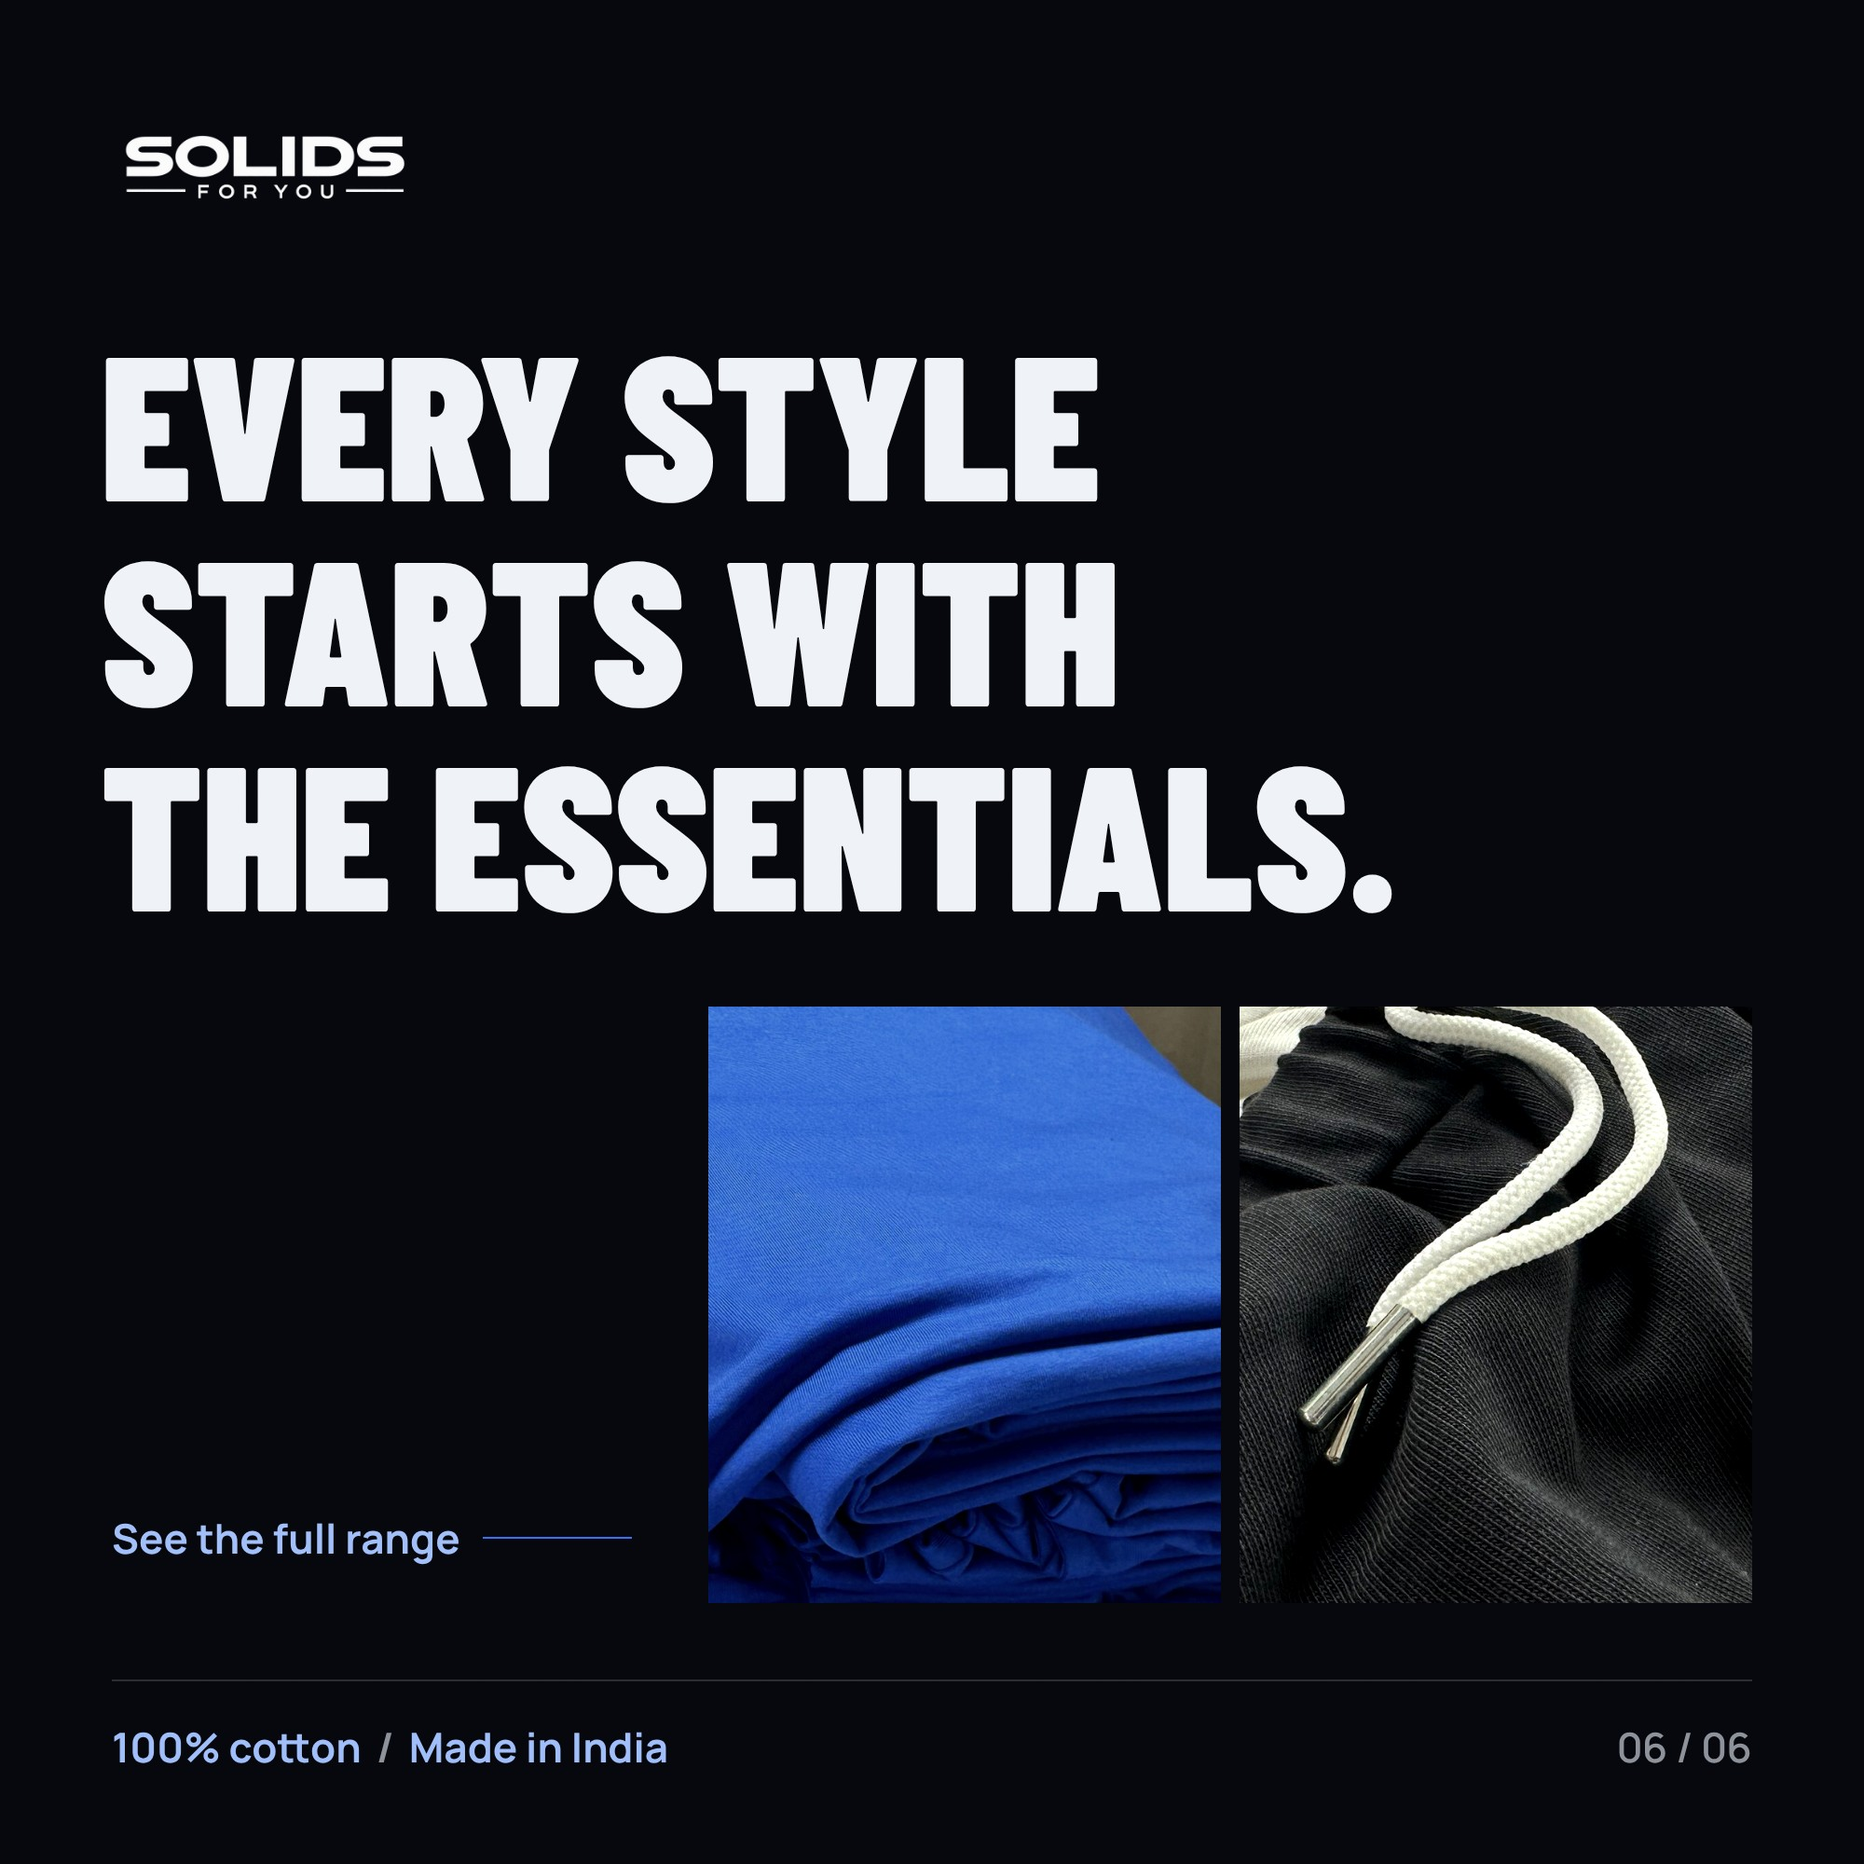
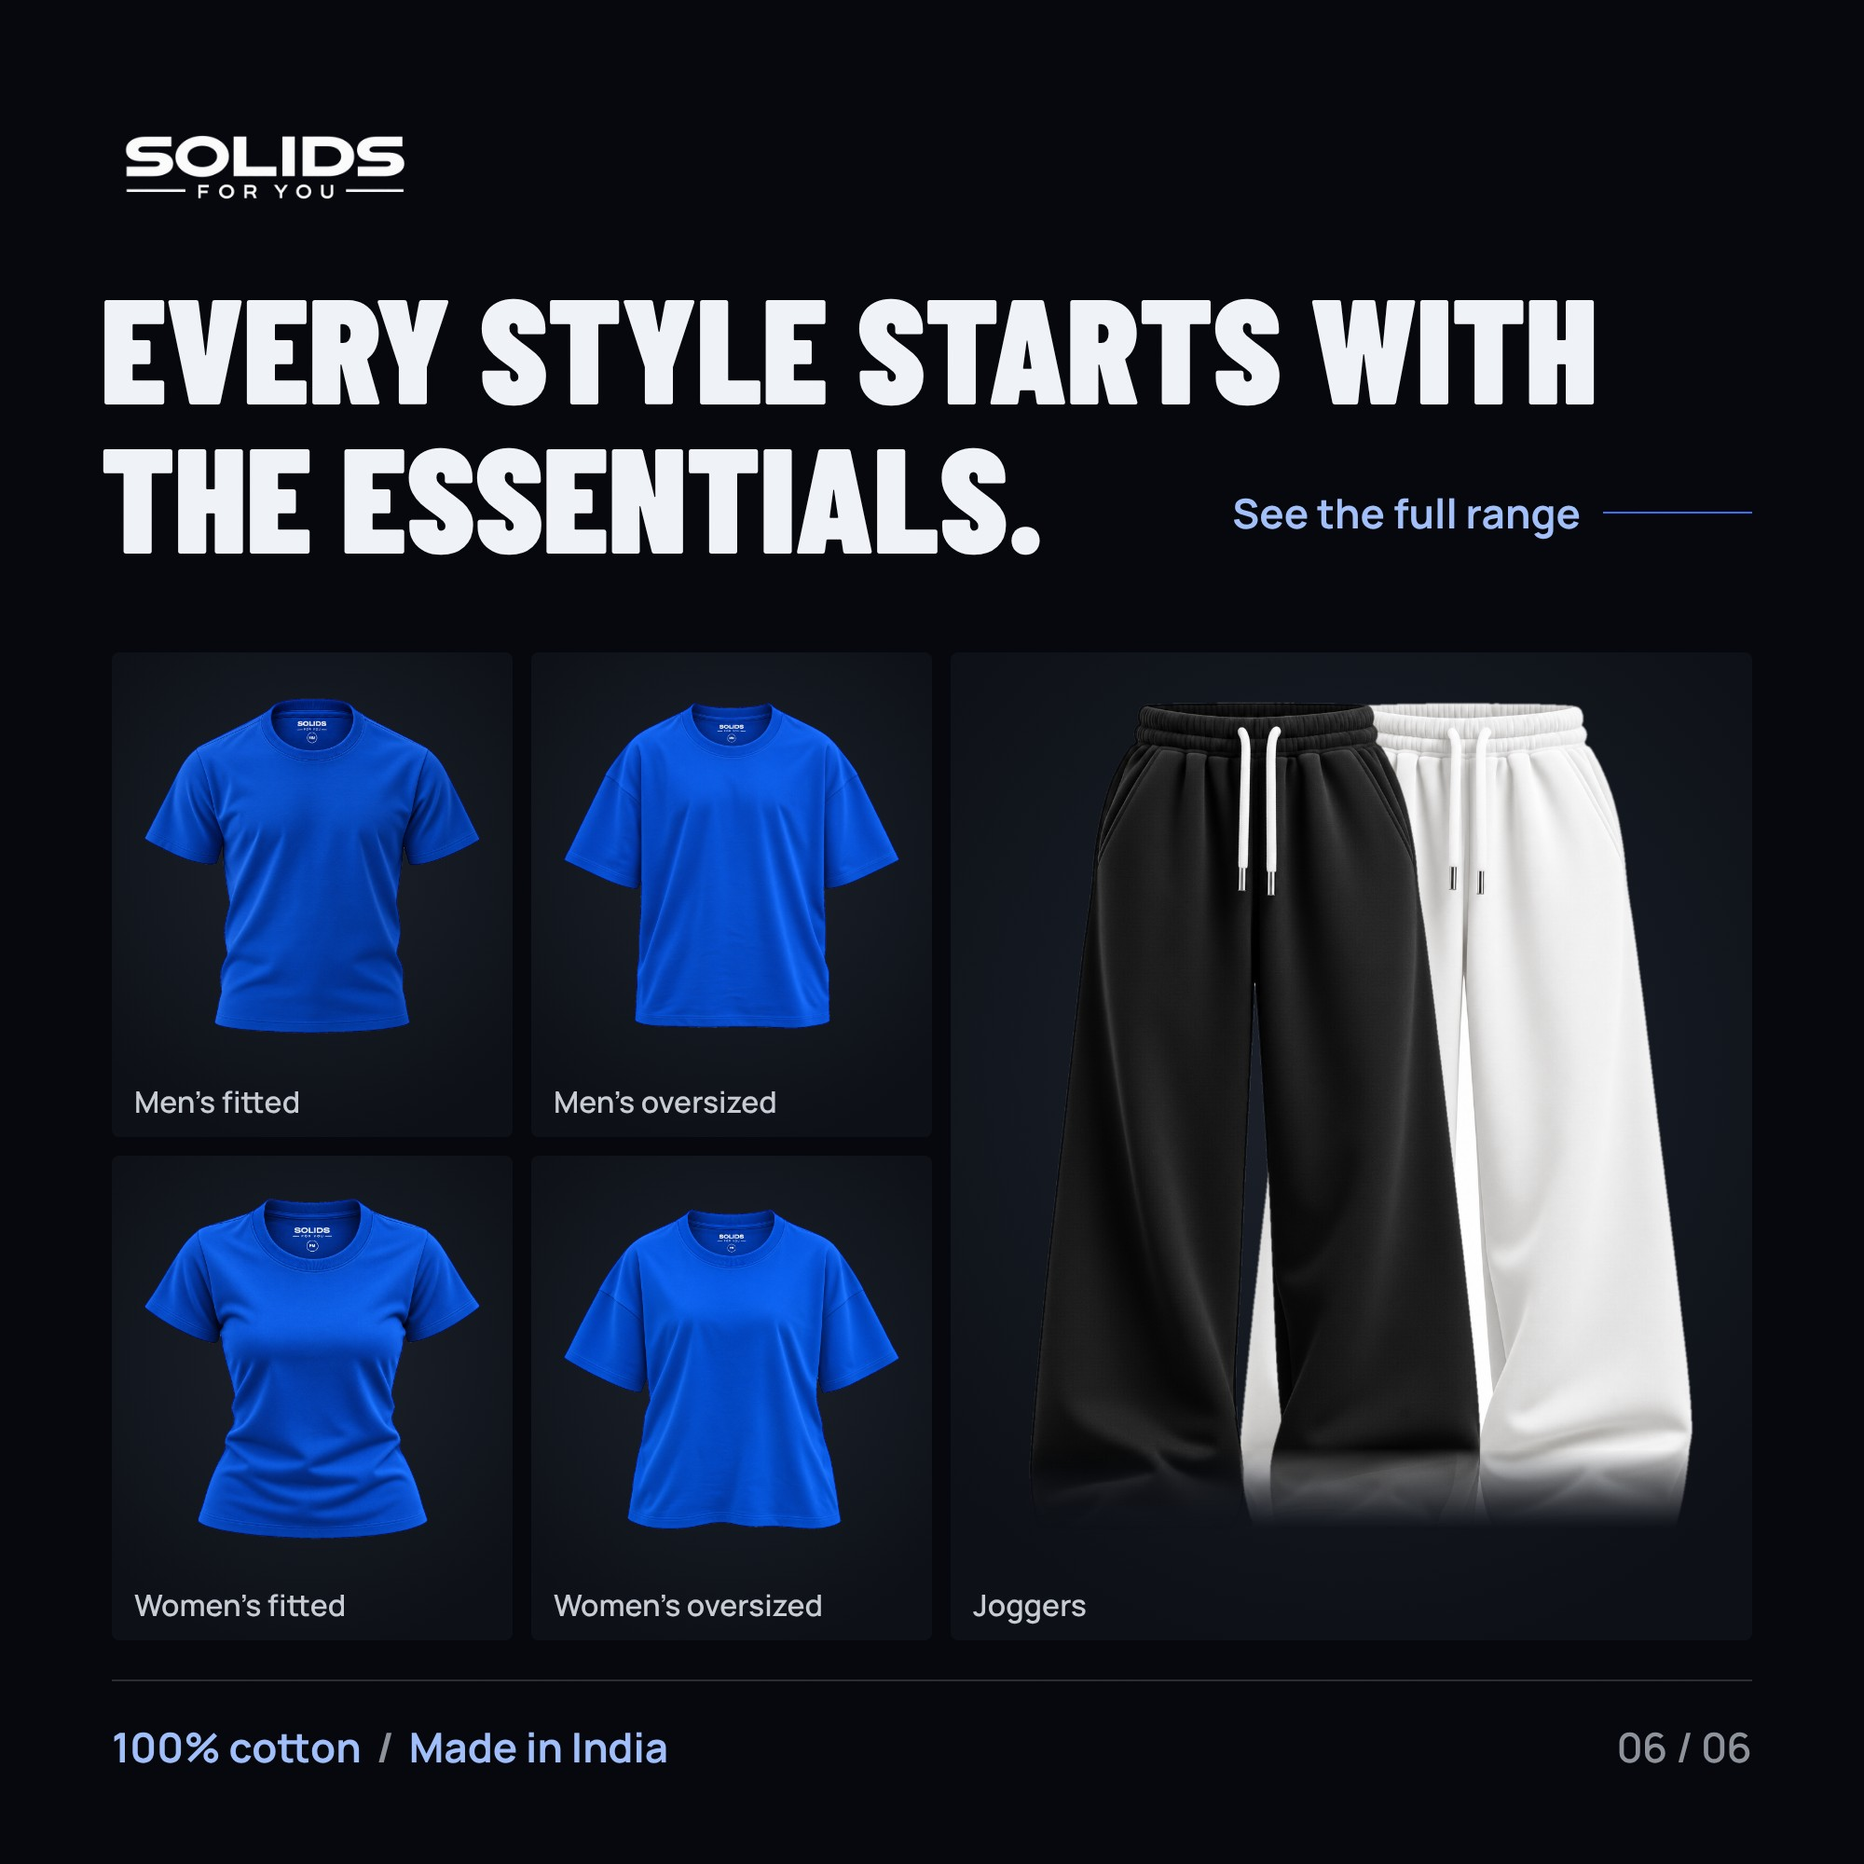
Brand Story card 06: the full range as a grid on black
Six product cutouts (4 tees, black and white joggers) with the white studio
background removed, in assets/sfy/products/ (indexed). Cutout script in
amazon/brand-story-images/src/cutout.py.

Claude-Session: https://claude.ai/code/session_01SfDb7JAhykQvxkVuPSpcig

diff --git a/amazon/brand-story-images/src/site.html b/amazon/brand-story-images/src/site.html
@@ -7,7 +7,7 @@
 /* Hallmark · shape: Story strip (seven square cards, each one idea) · genre: editorial · theme: brand · redesign: full
  * paper: oklch(13% 0.012 264) · accent: oklch(58% 0.21 264) · display: Barlow Condensed 900 · body: Manrope 600/700 · hero: full-bleed photo, logo as head · nav: none (image cards) · footer: claim rule, kept · signature: the logo set huge over the cutting table
  * axes: dark/condensed caps/brand blue · posture: Restrained · contrast: pass · fold: pass · v2.0.0 */
-/* Hallmark · pre-emit critique: P4 H4 E4 S4 R4 V4 · weakest: S, three cards opened the same way (head over pictures); 03 is now a day list beside one photo, 04 a plate the head wraps, 06 the tagline over the range, tee beside jogger */
+/* Hallmark · pre-emit critique: P4 H4 E4 S4 R4 V4 · weakest: S, three cards opened the same way (head over pictures); 03 is now a day list beside one photo, 04 a plate the head wraps, 06 the tagline over the whole range as a grid */
 /* Hallmark · waive 59 · body gap 3.2cqw between every card · the story reads as one series of square cards, one gutter throughout, made to export one by one */
 /* Hallmark · waive 23 · .foot .u on the first and last card · the blue cotton and India claim opens and closes the story */
 :root{
@@ -16,6 +16,7 @@
   --shade-0:oklch(13% 0.012 264 / 0);--shade-50:oklch(13% 0.012 264 / .5);--shade-70:oklch(13% 0.012 264 / .7);--shade-90:oklch(13% 0.012 264 / .92);
   --font-display:"Barlow","Arial Narrow",sans-serif;--font-body:"Manrope",system-ui,sans-serif;
   --s-sm:0.6cqw;--s-md:0.8cqw;--s-lg:1.2cqw;--s-xl:2cqw;--s-2xl:3.2cqw;--s-3xl:4.8cqw;--edge:6cqw;
+  --well:oklch(17% 0.014 264);--well-hi:oklch(25% 0.02 264);
   --shadow:0 1px 2px oklch(20% 0.01 264 / .05);
 }
 @font-face{font-family:Barlow;src:url(../../../brand/fonts/BarlowCondensed-900.ttf);font-weight:900;font-display:swap}
@@ -58,6 +59,14 @@ h1{font-family:var(--font-display);font-weight:900;text-transform:uppercase;line
 .day b{font-family:var(--font-display);font-weight:900;font-size:4.8cqw;line-height:1;text-transform:uppercase}
 /* 04: the plate */
 .plate h1 span{position:absolute;display:block;white-space:nowrap}
+/* 06: the range grid */
+.range{display:grid;grid-template-columns:minmax(0,1fr) minmax(0,1fr) minmax(0,2fr);grid-template-rows:1fr 1fr;gap:1cqw}
+.cell{position:relative;border-radius:0.4cqw;overflow:hidden;background:radial-gradient(70% 60% at 50% 42%,var(--well-hi),var(--well))}
+.cell img{position:absolute;left:50%;top:44%;transform:translate(-50%,-50%);max-width:84%;max-height:76%}
+.cell.j{grid-row:1 / 3;grid-column:3}
+.cell.j img{max-height:none;max-width:none;height:84%;top:47%}
+.cell.j .jb{left:38%;z-index:2}.cell.j .jw{left:63%;z-index:1}
+.cell p{position:absolute;left:var(--s-lg);bottom:var(--s-md);font-size:1.6cqw;color:var(--ink-2)}
 .more{display:inline-flex;align-items:center;gap:var(--s-lg);font-size:2.2cqw;font-weight:700;color:var(--accent-soft)}
 .more i{display:block;width:8cqw;height:0.1cqw;background:var(--accent)}
 </style></head><body>
@@ -124,10 +133,15 @@ h1{font-family:var(--font-display);font-weight:900;text-transform:uppercase;line
 
 <section id="essentials">
   <img class="logo" src="logo.png" alt="">
-  <h1 class="abs" style="left:5.4cqw;top:17cqw;font-size:11cqw">Every style<br>starts with<br>the essentials.</h1>
-  <div class="ph" style="left:38cqw;top:54cqw;width:27.5cqw;height:32cqw;background-image:url(../../../assets/sfy/photos/blue-tees-folded-stack.jpg);background-size:320%;background-position:62% 88%"></div>
-  <div class="ph" style="left:66.5cqw;top:54cqw;width:27.5cqw;height:32cqw;background-image:url(../../../assets/sfy/photos/black-joggers-drawstring-metal-tips-factory-cropped.jpg);background-size:auto 150%;background-position:45% 60%;filter:contrast(1.1) brightness(1.05)"></div>
-  <p class="more abs" style="left:6cqw;top:81cqw">See the full range <i></i></p>
+  <h1 class="abs" style="left:5.4cqw;top:14.5cqw;font-size:8cqw">Every style starts with<br>the essentials.</h1>
+  <p class="more abs" style="right:6cqw;top:26cqw">See the full range <i></i></p>
+  <div class="range abs" style="left:6cqw;right:6cqw;top:35cqw;height:53cqw">
+    <div class="cell"><img src="../../../assets/sfy/products/tee-mens-fitted-blue.png" alt="Men's fitted tee in blue"><p>Men&rsquo;s fitted</p></div>
+    <div class="cell"><img src="../../../assets/sfy/products/tee-mens-oversized-blue.png" alt="Men's oversized tee in blue"><p>Men&rsquo;s oversized</p></div>
+    <div class="cell j"><img class="jw" src="../../../assets/sfy/products/joggers-white.png" alt="White joggers"><img class="jb" src="../../../assets/sfy/products/joggers-black.png" alt="Black joggers"><p>Joggers</p></div>
+    <div class="cell"><img src="../../../assets/sfy/products/tee-womens-fitted-blue.png" alt="Women's fitted tee in blue"><p>Women&rsquo;s fitted</p></div>
+    <div class="cell"><img src="../../../assets/sfy/products/tee-womens-oversized-blue.png" alt="Women's oversized tee in blue"><p>Women&rsquo;s oversized</p></div>
+  </div>
   <div class="grain"></div>
   <div class="foot"><div class="u">100% cotton<span>/</span>Made in India</div><div class="x">06 / 06</div></div>
 </section>

diff --git a/amazon/brand-story-images/src/site.src.html b/amazon/brand-story-images/src/site.src.html
@@ -7,7 +7,7 @@
 /* Hallmark · shape: Story strip (seven square cards, each one idea) · genre: editorial · theme: brand · redesign: full
  * paper: oklch(13% 0.012 264) · accent: oklch(58% 0.21 264) · display: Barlow Condensed 900 · body: Manrope 600/700 · hero: full-bleed photo, logo as head · nav: none (image cards) · footer: claim rule, kept · signature: the logo set huge over the cutting table
  * axes: dark/condensed caps/brand blue · posture: Restrained · contrast: pass · fold: pass · v2.0.0 */
-/* Hallmark · pre-emit critique: P4 H4 E4 S4 R4 V4 · weakest: S, three cards opened the same way (head over pictures); 03 is now a day list beside one photo, 04 a plate the head wraps, 06 the tagline over the range, tee beside jogger */
+/* Hallmark · pre-emit critique: P4 H4 E4 S4 R4 V4 · weakest: S, three cards opened the same way (head over pictures); 03 is now a day list beside one photo, 04 a plate the head wraps, 06 the tagline over the whole range as a grid */
 /* Hallmark · waive 59 · body gap 64px between every card · the story reads as one series of square cards, one gutter throughout, made to export one by one */
 /* Hallmark · waive 23 · .foot .u on the first and last card · the blue cotton and India claim opens and closes the story */
 :root{
@@ -16,6 +16,7 @@
   --shade-0:oklch(13% 0.012 264 / 0);--shade-50:oklch(13% 0.012 264 / .5);--shade-70:oklch(13% 0.012 264 / .7);--shade-90:oklch(13% 0.012 264 / .92);
   --font-display:"Barlow","Arial Narrow",sans-serif;--font-body:"Manrope",system-ui,sans-serif;
   --s-sm:12px;--s-md:16px;--s-lg:24px;--s-xl:40px;--s-2xl:64px;--s-3xl:96px;--edge:120px;
+  --well:oklch(17% 0.014 264);--well-hi:oklch(25% 0.02 264);
   --shadow:0 1PX 2PX oklch(20% 0.01 264 / .05);
 }
 @font-face{font-family:Barlow;src:url(../../../brand/fonts/BarlowCondensed-900.ttf);font-weight:900;font-display:swap}
@@ -58,6 +59,14 @@ h1{font-family:var(--font-display);font-weight:900;text-transform:uppercase;line
 .day b{font-family:var(--font-display);font-weight:900;font-size:96px;line-height:1;text-transform:uppercase}
 /* 04: the plate */
 .plate h1 span{position:absolute;display:block;white-space:nowrap}
+/* 06: the range grid */
+.range{display:grid;grid-template-columns:minmax(0,1fr) minmax(0,1fr) minmax(0,2fr);grid-template-rows:1fr 1fr;gap:20px}
+.cell{position:relative;border-radius:8px;overflow:hidden;background:radial-gradient(70% 60% at 50% 42%,var(--well-hi),var(--well))}
+.cell img{position:absolute;left:50%;top:44%;transform:translate(-50%,-50%);max-width:84%;max-height:76%}
+.cell.j{grid-row:1 / 3;grid-column:3}
+.cell.j img{max-height:none;max-width:none;height:84%;top:47%}
+.cell.j .jb{left:38%;z-index:2}.cell.j .jw{left:63%;z-index:1}
+.cell p{position:absolute;left:var(--s-lg);bottom:var(--s-md);font-size:32px;color:var(--ink-2)}
 .more{display:inline-flex;align-items:center;gap:var(--s-lg);font-size:44px;font-weight:700;color:var(--accent-soft)}
 .more i{display:block;width:160px;height:2px;background:var(--accent)}
 </style></head><body>
@@ -124,10 +133,15 @@ h1{font-family:var(--font-display);font-weight:900;text-transform:uppercase;line
 
 <section id="essentials">
   <img class="logo" src="logo.png" alt="">
-  <h1 class="abs" style="left:108px;top:340px;font-size:220px">Every style<br>starts with<br>the essentials.</h1>
-  <div class="ph" style="left:760px;top:1080px;width:550px;height:640px;background-image:url(../../../assets/sfy/photos/blue-tees-folded-stack.jpg);background-size:320%;background-position:62% 88%"></div>
-  <div class="ph" style="left:1330px;top:1080px;width:550px;height:640px;background-image:url(../../../assets/sfy/photos/black-joggers-drawstring-metal-tips-factory-cropped.jpg);background-size:auto 150%;background-position:45% 60%;filter:contrast(1.1) brightness(1.05)"></div>
-  <p class="more abs" style="left:120px;top:1620px">See the full range <i></i></p>
+  <h1 class="abs" style="left:108px;top:290px;font-size:160px">Every style starts with<br>the essentials.</h1>
+  <p class="more abs" style="right:120px;top:520px">See the full range <i></i></p>
+  <div class="range abs" style="left:120px;right:120px;top:700px;height:1060px">
+    <div class="cell"><img src="../../../assets/sfy/products/tee-mens-fitted-blue.png" alt="Men's fitted tee in blue"><p>Men&rsquo;s fitted</p></div>
+    <div class="cell"><img src="../../../assets/sfy/products/tee-mens-oversized-blue.png" alt="Men's oversized tee in blue"><p>Men&rsquo;s oversized</p></div>
+    <div class="cell j"><img class="jw" src="../../../assets/sfy/products/joggers-white.png" alt="White joggers"><img class="jb" src="../../../assets/sfy/products/joggers-black.png" alt="Black joggers"><p>Joggers</p></div>
+    <div class="cell"><img src="../../../assets/sfy/products/tee-womens-fitted-blue.png" alt="Women's fitted tee in blue"><p>Women&rsquo;s fitted</p></div>
+    <div class="cell"><img src="../../../assets/sfy/products/tee-womens-oversized-blue.png" alt="Women's oversized tee in blue"><p>Women&rsquo;s oversized</p></div>
+  </div>
   <div class="grain"></div>
   <div class="foot"><div class="u">100% cotton<span>/</span>Made in India</div><div class="x">06 / 06</div></div>
 </section>

diff --git a/amazon/brand-story-images/src/cutout.py b/amazon/brand-story-images/src/cutout.py
@@ -1,0 +1,25 @@
+# Cut a product out of a white studio background: flood the white from the borders, soft edge, defringe.
+import sys, numpy as np
+from PIL import Image, ImageDraw, ImageFilter
+src, out, tol = sys.argv[1], sys.argv[2], int(sys.argv[3])
+im = Image.open(src).convert('RGB'); a = np.asarray(im).astype(np.float32)
+mn = a.min(axis=2)
+bgish = (mn >= 255 - tol).astype(np.uint8) * 255
+m = Image.fromarray(bgish, 'L').copy(); W, H = m.size
+for x in range(0, W, 16):
+    for y in (0, H - 1):
+        if m.getpixel((x, y)) == 255: ImageDraw.floodfill(m, (x, y), 128)
+for y in range(0, H, 16):
+    for x in (0, W - 1):
+        if m.getpixel((x, y)) == 255: ImageDraw.floodfill(m, (x, y), 128)
+bg = (np.asarray(m) == 128)
+# grow the background by 1px into the antialiased rim, then feather
+bgimg = Image.fromarray((bg * 255).astype(np.uint8)).filter(ImageFilter.MaxFilter(3))
+alpha = 255 - np.asarray(bgimg.filter(ImageFilter.GaussianBlur(1.2))).astype(np.float32)
+al = np.clip(alpha / 255, 0, 1)[..., None]
+# defringe: remove the white the rim was blended with
+rgb = np.where(al > 0.02, (a - (1 - al) * 255) / np.maximum(al, 0.02), 0)
+rgb = np.clip(rgb, 0, 255)
+o = np.dstack([rgb, al[..., 0] * 255]).astype(np.uint8)
+Image.fromarray(o, 'RGBA').crop(Image.fromarray(o[..., 3]).getbbox()).save(out)
+print(out, 'bg share %.2f' % bg.mean())

diff --git a/assets/sfy/README.md b/assets/sfy/README.md
@@ -71,3 +71,16 @@ when a reel needs them, named by what they show.
 Use these instead of the originals anywhere public: `photos/black-joggers-drawstring-metal-tips-factory-cropped.jpg`,
 `photos/black-joggers-drawstring-factory-table-workers-cropped.jpg`, `photos/black-joggers-drawstring-factory-table-cropped.jpg`,
 `photos/factory-floor-sewing-line-cropped.jpg`. Founder rule: factory workers are never shown.
+
+## products/ (cutouts on transparent background, added 31 Oct 2026)
+
+Founder's product renders with the white studio background removed (flood-fill from the borders, feathered and defringed; joggers' floor shadow trimmed and hems faded so they sit on black). Used on Brand Story card 06.
+
+| File | Shows |
+|---|---|
+| `products/tee-mens-fitted-blue.png` | Men's fitted tee, blue, neck print "MM" |
+| `products/tee-mens-oversized-blue.png` | Men's oversized tee, blue, "MM" |
+| `products/tee-womens-fitted-blue.png` | Women's fitted tee, blue, "FM" |
+| `products/tee-womens-oversized-blue.png` | Women's oversized tee, blue, "FM" |
+| `products/joggers-black.png` | Wide-leg joggers, black, white drawstring with metal tips (hem fades out) |
+| `products/joggers-white.png` | Wide-leg joggers, white (hem fades out) |
